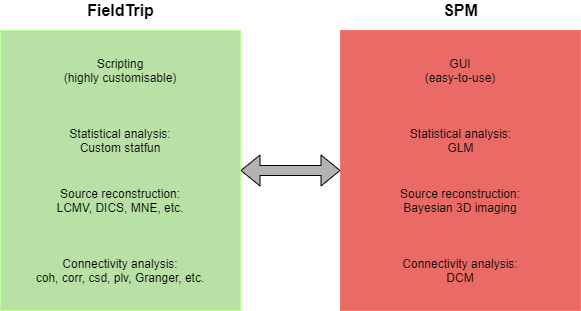
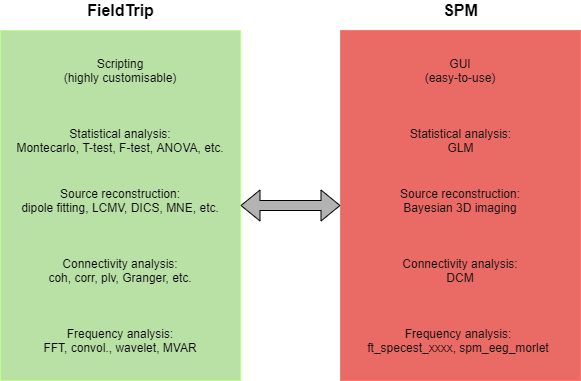
UPDATE - updated SPM doc following Jan-Mathijs feedback

diff --git a/getting_started/spm.md b/getting_started/spm.md
@@ -22,30 +22,45 @@ The developers of SPM have a formal collaboration with the developers of FieldTr
 [Reference paper](https://www.hindawi.com/journals/cin/2011/852961/), [courses](https://www.fil.ion.ucl.ac.uk/spm/course/video/) and [tutorials](https://jsheunis.github.io/2018-06-28-spm12-matlab-scripting-tutorial-1/) are also available
 
 
-## How FieldTrip uses SPM?
+## How does FieldTrip use SPM?
 
-As SPM expertise is mainly oriented to volume data (MRI, fMRI), FieldTrip integrates some SPM functions to perform specific operations on 3D structures such as normalising, smoothing or realigning. The following figure shows main FieldTrip functions using SPM:
+As SPM expertise is mainly oriented to 3D volumetric data processing (MRI, fMRI), FieldTrip integrates SPM functionalities to deal with two main operations:
+1. Creation of the geometries needed for accurate forward modelling (e.g. spm_create_vol, spm_segment)
+2. Spatial normalisation of volumetric images for efficient group statistics at the source level (e.g. spm_normalise, spm_deformations)
+The following figure shows main FieldTrip functions using SPM:
 
 ![How FieldTrip uses SPM](/assets/img/getting_started/spm/FieldTrip_uses_SPM.png)
 
 
-## How SPM uses FieldTrip?
+## How does SPM use FieldTrip?
 
-SPM integrates some FieldTrip functions to perform operations on EEG data such as reading, format checking, plotting, preprocessing or frequency analysis. The following figure illustrates some SPM functions using FieldTrip: 
+SPM integrates some FieldTrip functions to perform operations on M/EEG data such as reading, format checking, plotting, preprocessing or frequency analysis. Specifically, SPM needs FieldTrip to create forward models (ft_compute_leadfield, ft_prepare_vol_sens).
+The following figure illustrates some SPM functions using FieldTrip: 
 
 ![How SPM uses FieldTrip](/assets/img/getting_started/spm/SPM_uses_FieldTrip.png)
 
+
 ## Complementary use of both toolboxes
 
-Users can take advantage of both SPM and FieldTrip toolboxes to run a wider range of analyses on an experiment. Let's have a look at the specific tools available within each of them:
+Users can take advantage of both SPM and FieldTrip toolboxes to run a wider range of analyses on an experiment. To convert data from SPM object to FieldTrip structure, the user can use ```spm2fieldtrip``` and ```fieldtrip2spm``` functions as shown in this example:
+```
+ft_hastoolbox('spm8',1);
+D 		= spm_eeg_load(spm_filename);
+data 	= spm2fieldtrip(D);
+```
+
+Let's have a look at the specific tools available within each of them:
 
 - FieldTrip offers highly customisable analyses through scripting, while SPM allows non-proficient MATLAB users to run their analyses through GUI tools. The graphical interface is simply called through ```spm xxxx``` where the xxxx corresponds to the data type to be analysed (e.g. ```spm eeg```).
 
-- Statistical analysis can be performed trough various custom statfun within FieldTrip (cf. [demo](https://www.fieldtriptoolbox.org/workshop/meg-uk-2015/fieldtrip-stats-demo/)), while SPM uses general linear model (GLM) consisting of a 2-level analysis with 1st level corresponding to a subject-by-subject regression as explained in [this tutorial](https://www.youtube.com/watch?v=KdB9F8cf0L0&list=PLx_IWc-RN82uKTWzgho2ARVGan8TNlb9d&index=12) and the 2nd level corresponding to group analysis (cf. [this tutorial](https://www.youtube.com/watch?v=_7jzkV7oUXg&list=PLx_IWc-RN82uKTWzgho2ARVGan8TNlb9d&index=13)). Another example of SPM sensor-level stats can be found [here](https://www.fieldtriptoolbox.org/workshop/meg-uk-2015/spm_stats/).
+- Statistical analysis in FieldTrip can be performed through various statistical tests, either parametric (T/F-statistic, ANOVA, etc.), non-parametric (Montecarlo) (cf. [demo](https://www.fieldtriptoolbox.org/workshop/meg-uk-2015/fieldtrip-stats-demo/)). The user also have the opportunity to design his/her own custom statfun implementing multiple tests. On the other hand, SPM uses general linear model (GLM) computing parametric statistics (T or F tests) based on specific contrasts following a 2-level approach: 1st level = subject-by-subject regression (cf. [tutorial](https://www.youtube.com/watch?v=KdB9F8cf0L0&list=PLx_IWc-RN82uKTWzgho2ARVGan8TNlb9d&index=12)); 2nd level = group analysis (cf. [tutorial](https://www.youtube.com/watch?v=_7jzkV7oUXg&list=PLx_IWc-RN82uKTWzgho2ARVGan8TNlb9d&index=13)).  Another example of SPM sensor-level stats can be found [here](https://www.fieldtriptoolbox.org/workshop/meg-uk-2015/spm_stats/).
+On top of that, the way both toolboxes deal with the multiple comparison problem is also different. FieldTrip implements clustering method, while SPM exploits the random field theory ([RFT](https://www.fil.ion.ucl.ac.uk/spm/doc/books/hbf2/pdfs/Ch14.pdf)).
 
-- FieldTrip source reconstruction tool includes multiple methods such as linear constrained minimum variance beamformer (LCMV), dynamic imaging of coherent sources (DICS), minimum norm estimation (MNE), etc. as described in [ft_sourceanalysis](https://www.fieldtriptoolbox.org/reference/ft_sourceanalysis/) (cf. [demo](https://www.fieldtriptoolbox.org/workshop/meg-uk-2015/fieldtrip-beamformer-demo/)), while SPM focuses on Bayesian 3D imaging source reconstruction as shown in [this example](https://www.fieldtriptoolbox.org/workshop/meg-uk-2015/spm_source/).
+- FieldTrip source reconstruction tool includes multiple methods such as [dipole fitting](https://www.fieldtriptoolbox.org/workshop/natmeg/dipolefitting/), linear constrained minimum variance beamformer ([LCMV](https://www.fieldtriptoolbox.org/tutorial/beamformer_lcmv/)), dynamic imaging of coherent sources ([DICS](https://www.fieldtriptoolbox.org/tutorial/beamformer/)), minimum norm estimation ([MNE](https://www.fieldtriptoolbox.org/tutorial/minimumnormestimate/)), etc. as described in [ft_sourceanalysis](https://www.fieldtriptoolbox.org/reference/ft_sourceanalysis/), while SPM focuses on [Bayesian 3D imaging source reconstruction](https://www.fieldtriptoolbox.org/workshop/meg-uk-2015/spm_source/) or variational Bayesian dipole fitting using ```spm_eeg_dipole_waveforms```.
 
 - Connectivity analysis can be done using various methods. FieldTrip leaves the user the opportunity to choose between various methods (coherence, correlation, cross-spectral density, phase-locking value, Granger causality), as described in [ft_connectivityanalysis](https://www.fieldtriptoolbox.org/reference/ft_connectivityanalysis/) (cf. [demo](https://www.fieldtriptoolbox.org/workshop/meg-uk-2015/fieldtrip-connectivity-demo/)), while SPM focuses on dynamic causal modelling (DCM) offering a very sophisticated analysis as shown in [this example](https://www.fieldtriptoolbox.org/workshop/meg-uk-2015/dcm_tutorial/).
+
+- Spectral analysis provided by FieldTrip offers several way to estimate the spectrum of the signal, including fast Fourier transform using multitaper, frequential convolution, wavelet transform and multivariate autoregressive model as described in [ft_freqanalysis](https://www.fieldtriptoolbox.org/reference/ft_freqanalysis/) (cf. [demo](https://www.fieldtriptoolbox.org/workshop/oslo2019/timefrequency/)). SPM mainly uses FieldTrip functions ```ft_specest_xxxx``` to run spectral analysis except for Morlet wavelet transform that is computed through ```spm_eeg_morlet``` function.
 
 In summary, FieldTrip leaves more freedom to the user with highly customisable tools, while SPM tools are very specific to achieve maximum efficiency. This complementarity is illustrated in the following figure:
 
